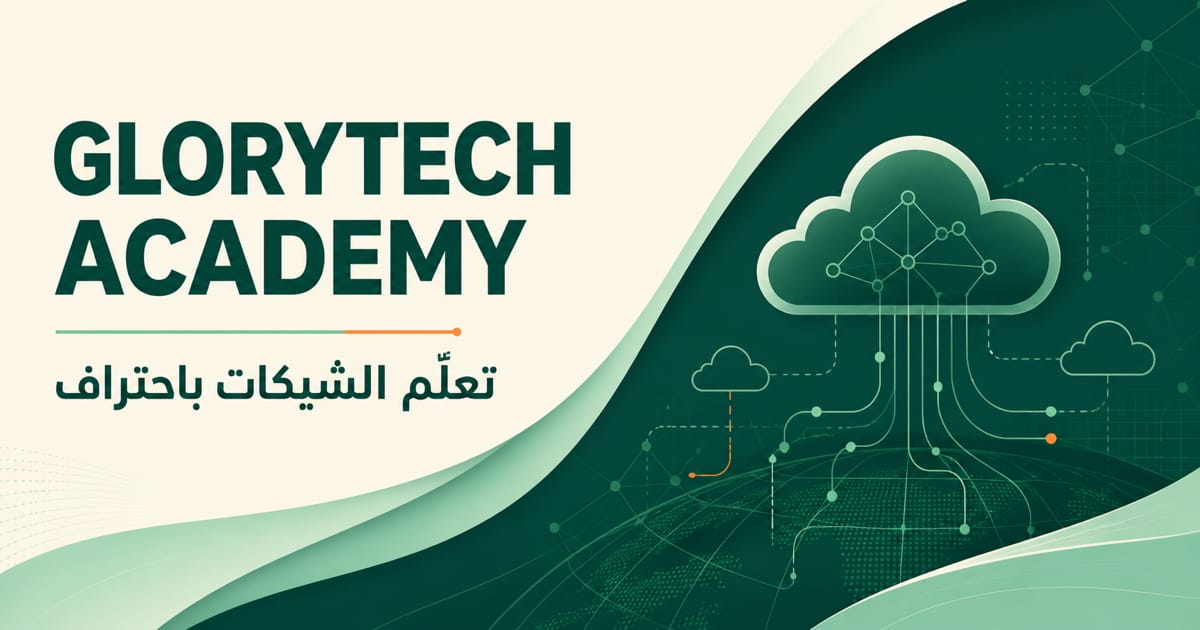
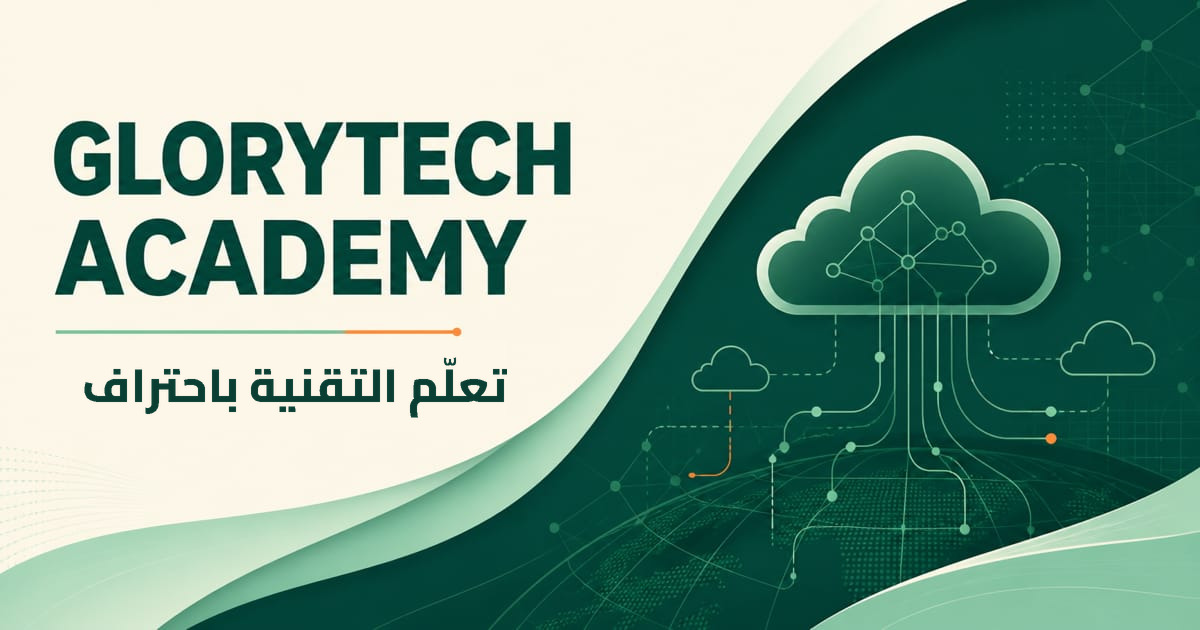
Measure real course progress, one row per learner, and fix the share card
The dashboard read progress from lesson_progress.completed_at, which nothing has
set since the "mark complete" button was removed, so every learner showed 0%.
Progress is now the share of a course's running time the learner has watched,
from the positions the player already saves, capped per lesson so a stale
position cannot push a course past 100%. Checked on Postgres against known watch
times: 318 of 1150 minutes reported as 28%, and a position five times longer
than its lesson did not inflate it.

Anyone enrolled in both courses appeared twice in the learners table. They now
appear once, with each course and its own progress bar on that row.

The share card said "تعلّم الشيكات باحتراف" -- a typo for الشبكات -- and now reads
"تعلّم التقنية باحتراف". Only the text band was repainted; the artwork is
untouched. The image URL carries a version so Facebook and LinkedIn refetch it
instead of serving the card they cached, and the card now declares its size,
locale and canonical URL.

Changed region(s): [[0.0308, 0.573, 0.4317, 0.6635]]

diff --git a/src/components/dashboard/sections.jsx b/src/components/dashboard/sections.jsx
@@ -201,8 +201,28 @@ export function LearnersTable({ learners, admin = false }) {
         </div>
       ),
     },
-    { key: 'course', header: t('dash.col.course'), render: (row) => <span className="font-inter text-xs font-black text-brand-ink">{row.course_code}</span> },
-    { key: 'progress', header: t('dash.col.progress'), render: (row) => <ProgressBar value={Number(row.progress) || 0} /> },
+    {
+      key: 'course',
+      header: t('dash.col.course'),
+      render: (row) => (
+        <div className="space-y-1">
+          {(row.courses || []).map((course) => (
+            <span key={course.course_id} className="block whitespace-nowrap font-inter text-xs font-black text-brand-ink">{course.course_code}</span>
+          ))}
+        </div>
+      ),
+    },
+    {
+      key: 'progress',
+      header: t('dash.col.progress'),
+      render: (row) => (
+        <div className="min-w-32 space-y-1">
+          {(row.courses || []).map((course) => (
+            <ProgressBar key={course.course_id} value={course.progress} />
+          ))}
+        </div>
+      ),
+    },
     { key: 'enrolled', header: t('dash.col.enrolled'), numeric: true, render: (row) => formatDate(row.enrolled_at) },
     { key: 'last', header: t('dash.col.lastActivity'), numeric: true, render: (row) => formatDate(row.last_activity) },
   ].filter(Boolean);
@@ -302,7 +322,28 @@ export function InstructorsTable({ instructors, onPayout }) {
   return <DataTable columns={columns} rows={instructors} empty="—" />;
 }
 
+// SQL returns one row per enrolment, so anyone taking both courses appeared twice.
+// One row per person, carrying each of their courses and how far they got in it.
 export function withLearnerKeys(learners) {
-  return (learners || []).map((row) => ({ ...row, __key: `${row.user_id}-${row.course_id}` }));
+  const byLearner = new Map();
+  for (const row of learners || []) {
+    const existing = byLearner.get(row.user_id);
+    const course = {
+      course_id: row.course_id,
+      course_code: row.course_code,
+      course_title: row.course_title,
+      course_title_en: row.course_title_en,
+      progress: Number(row.progress) || 0,
+    };
+    if (!existing) {
+      byLearner.set(row.user_id, { ...row, __key: row.user_id, courses: [course] });
+      continue;
+    }
+    existing.courses.push(course);
+    // Show when they first joined, and the most recent sign of life across every course.
+    if (row.enrolled_at < existing.enrolled_at) existing.enrolled_at = row.enrolled_at;
+    if ((row.last_activity || '') > (existing.last_activity || '')) existing.last_activity = row.last_activity;
+  }
+  return [...byLearner.values()];
 }
 

diff --git a/index.html b/index.html
@@ -7,13 +7,17 @@
     <meta name="theme-color" content="#ffffff" />
     <meta name="description" content="GloryTech Academy — منصة عربية تجمع نخبة من المدربين المحترفين. ابدأ بكورسات CCNA المجانية بالكامل." />
     <meta property="og:title" content="GLORYTECH ACADEMY" />
-    <meta property="og:description" content="نخبة من المدربين المحترفين — كورسات CCNA مجانية بالكامل" />
+    <meta property="og:description" content="تعلّم التقنية باحتراف — الشبكات والأمن والحوسبة السحابية مع مهندسين من الميدان" />
     <meta property="og:type" content="website" />
-    <meta property="og:image" content="/og.jpg" />
+    <meta property="og:url" content="https://academy.glorytech.ly/" />
+    <meta property="og:image:width" content="1200" />
+    <meta property="og:image:height" content="630" />
+    <meta property="og:locale" content="ar_LY" />
+    <meta property="og:image" content="https://academy.glorytech.ly/og.jpg?v=2" />
     <meta name="twitter:card" content="summary_large_image" />
     <meta name="twitter:title" content="GLORYTECH ACADEMY" />
-    <meta name="twitter:description" content="نخبة من المدربين المحترفين — كورسات CCNA مجانية بالكامل" />
-    <meta name="twitter:image" content="/og.jpg" />
+    <meta name="twitter:description" content="تعلّم التقنية باحتراف — الشبكات والأمن والحوسبة السحابية مع مهندسين من الميدان" />
+    <meta name="twitter:image" content="https://academy.glorytech.ly/og.jpg?v=2" />
     <title>GloryTech Academy — نخبة من المدربين المحترفين</title>
     <script>
       // Apply saved theme and language before first paint to avoid a flash.
